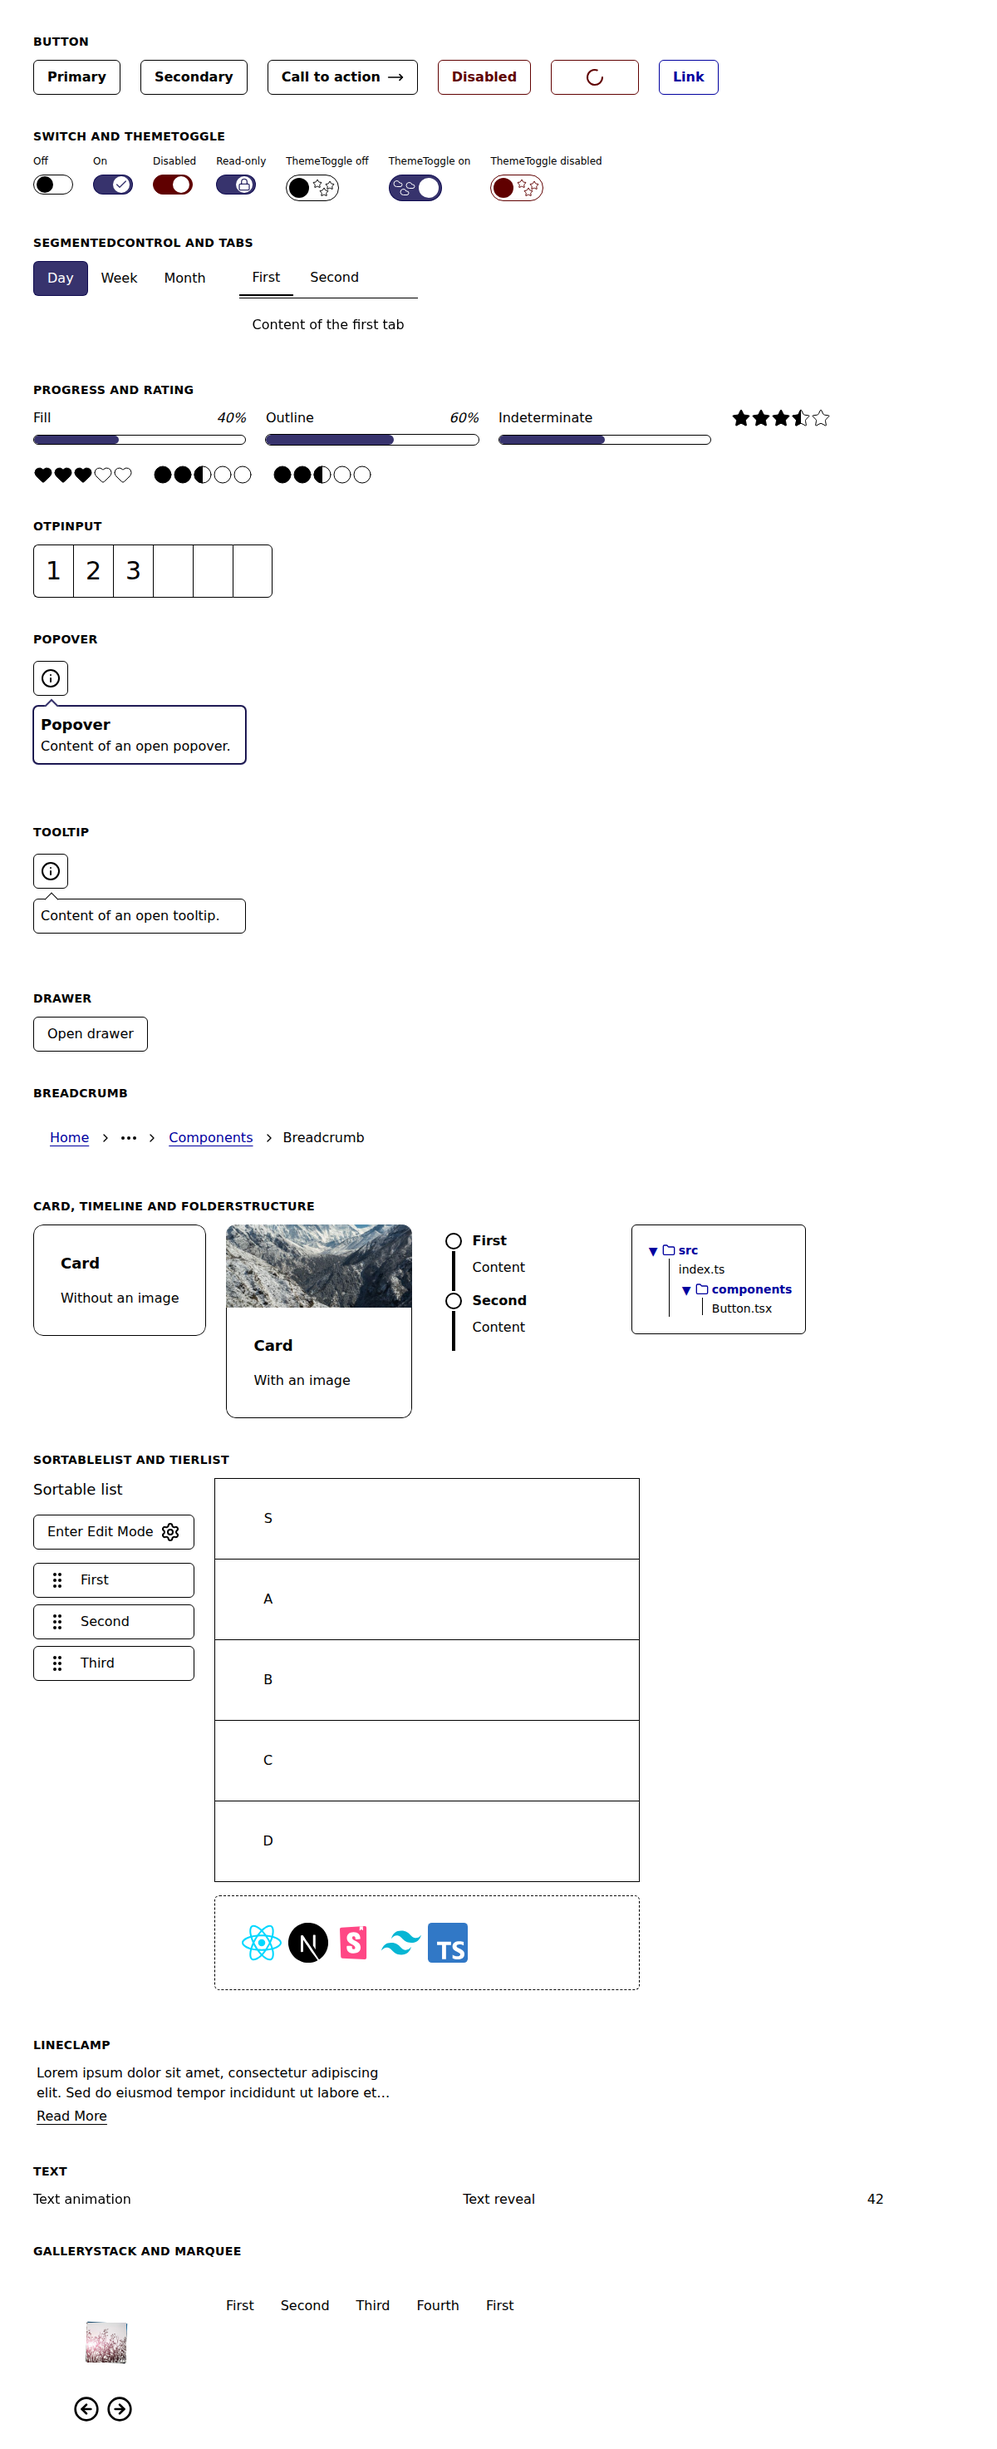
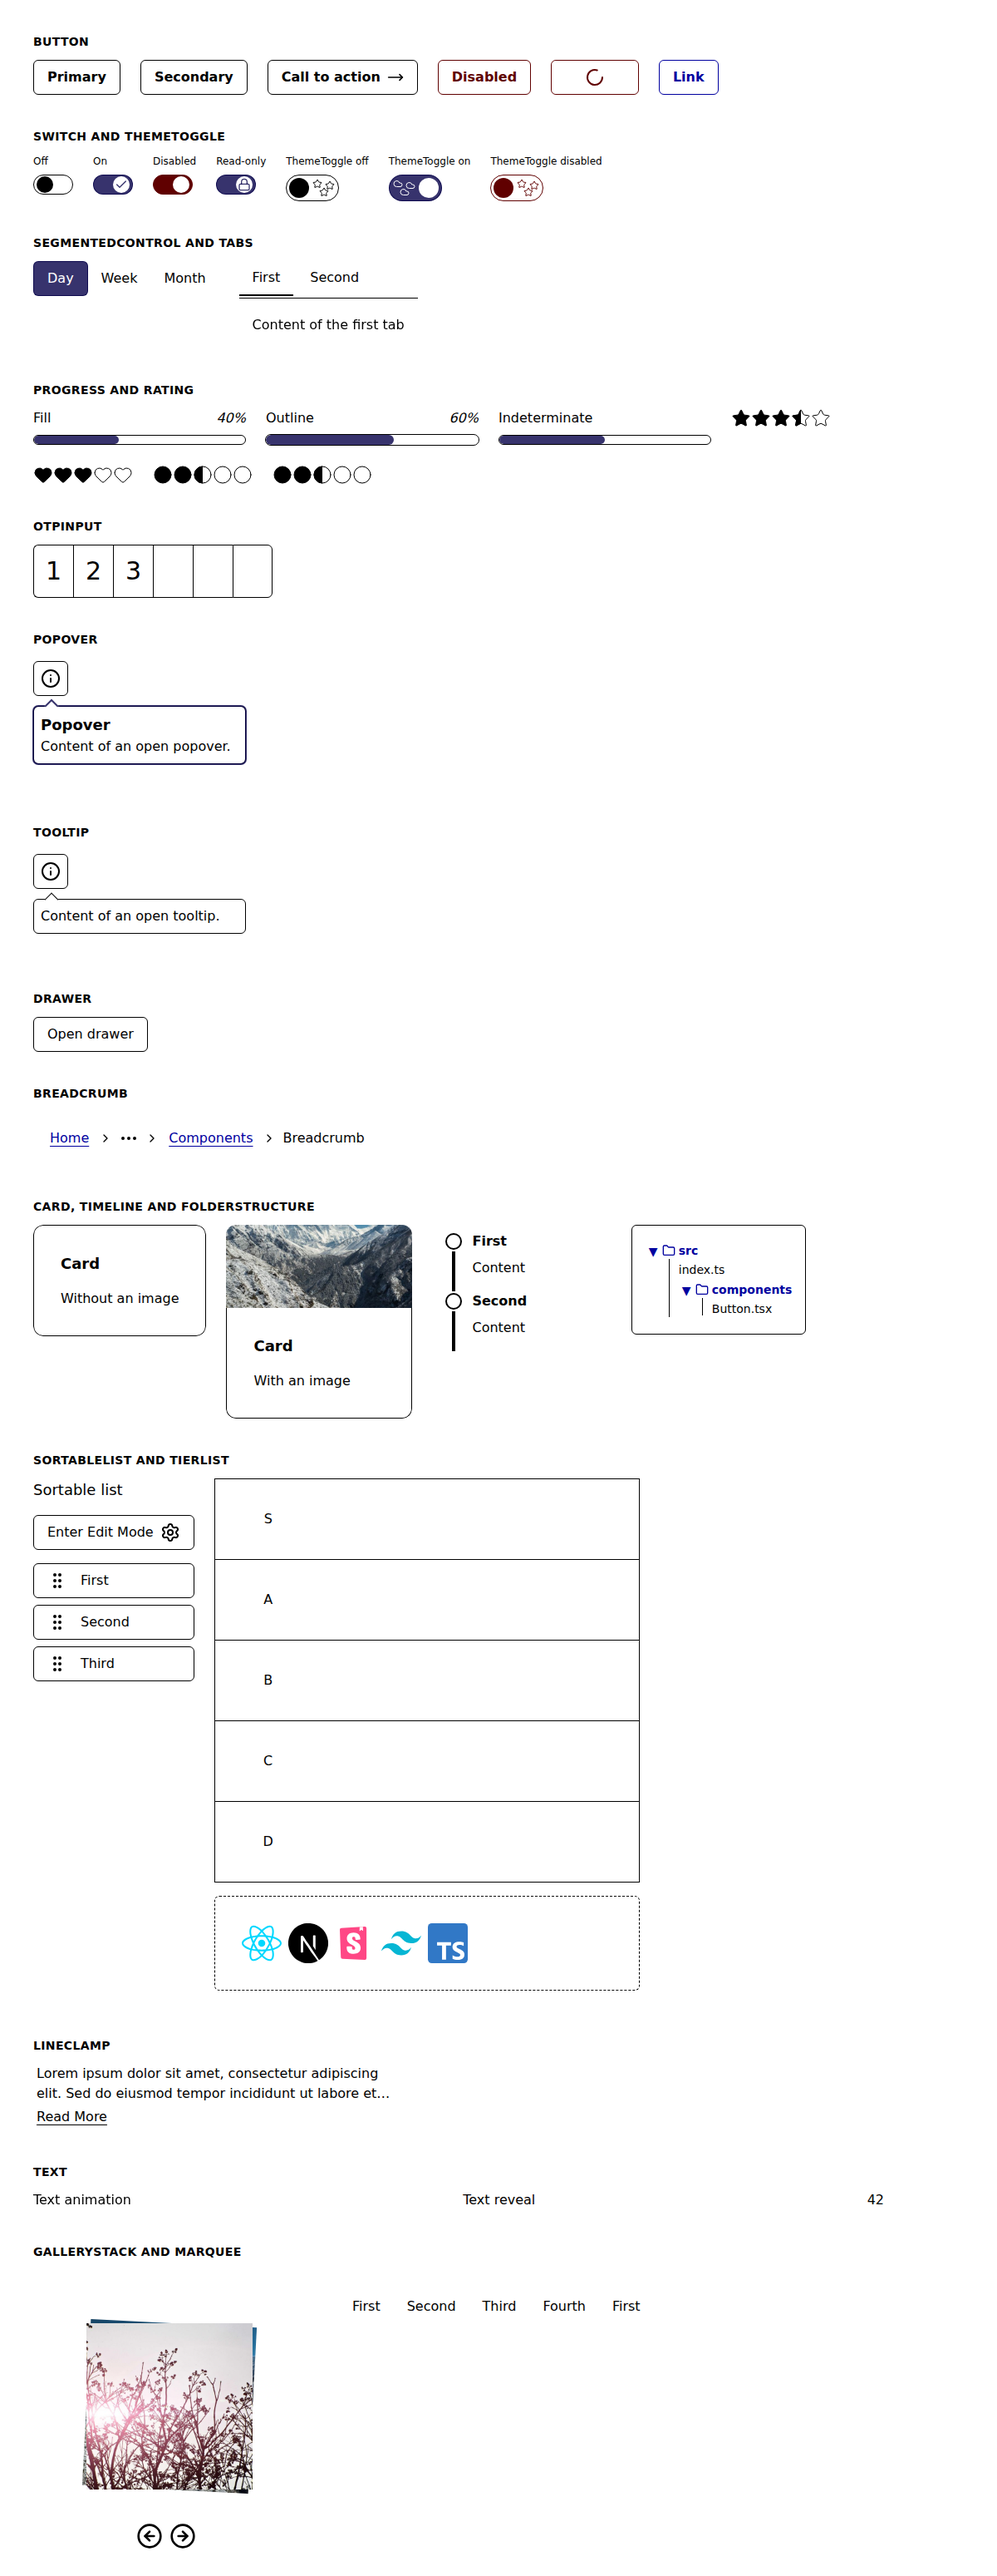
Show the GalleryStack images at full size on the All Components page
The wrapper was narrower than GalleryStack with its padding, so the
images shrank to about 50px. GalleryStack now sizes itself, with 200px
images.

Claude-Session: https://claude.ai/code/session_01Tpmt357CoN6A5EUsutHyN1

diff --git a/src/_stories/AllComponentsGallery.tsx b/src/_stories/AllComponentsGallery.tsx
@@ -255,13 +255,12 @@ export const AllComponentsGallery = () => (
     </Section>
 
     <Section title="GalleryStack and Marquee">
-      <div className="relative h-44 w-44">
-        <GalleryStack>
-          {images.map((src, idx) => (
-            <img src={src} alt="" width={120} height={120} key={idx} />
-          ))}
-        </GalleryStack>
-      </div>
+      {/* GalleryStack sizes itself, with room for the rotated images and the buttons: a narrower parent shrinks the images */}
+      <GalleryStack>
+        {images.map((src, idx) => (
+          <img src={src} alt="" width={200} height={200} className="size-50 object-cover" key={idx} />
+        ))}
+      </GalleryStack>
       <Marquee className="w-96" pauseOnHover={false}>
         {["First", "Second", "Third", "Fourth"].map((item) => (
           <span key={item}>{item}</span>
